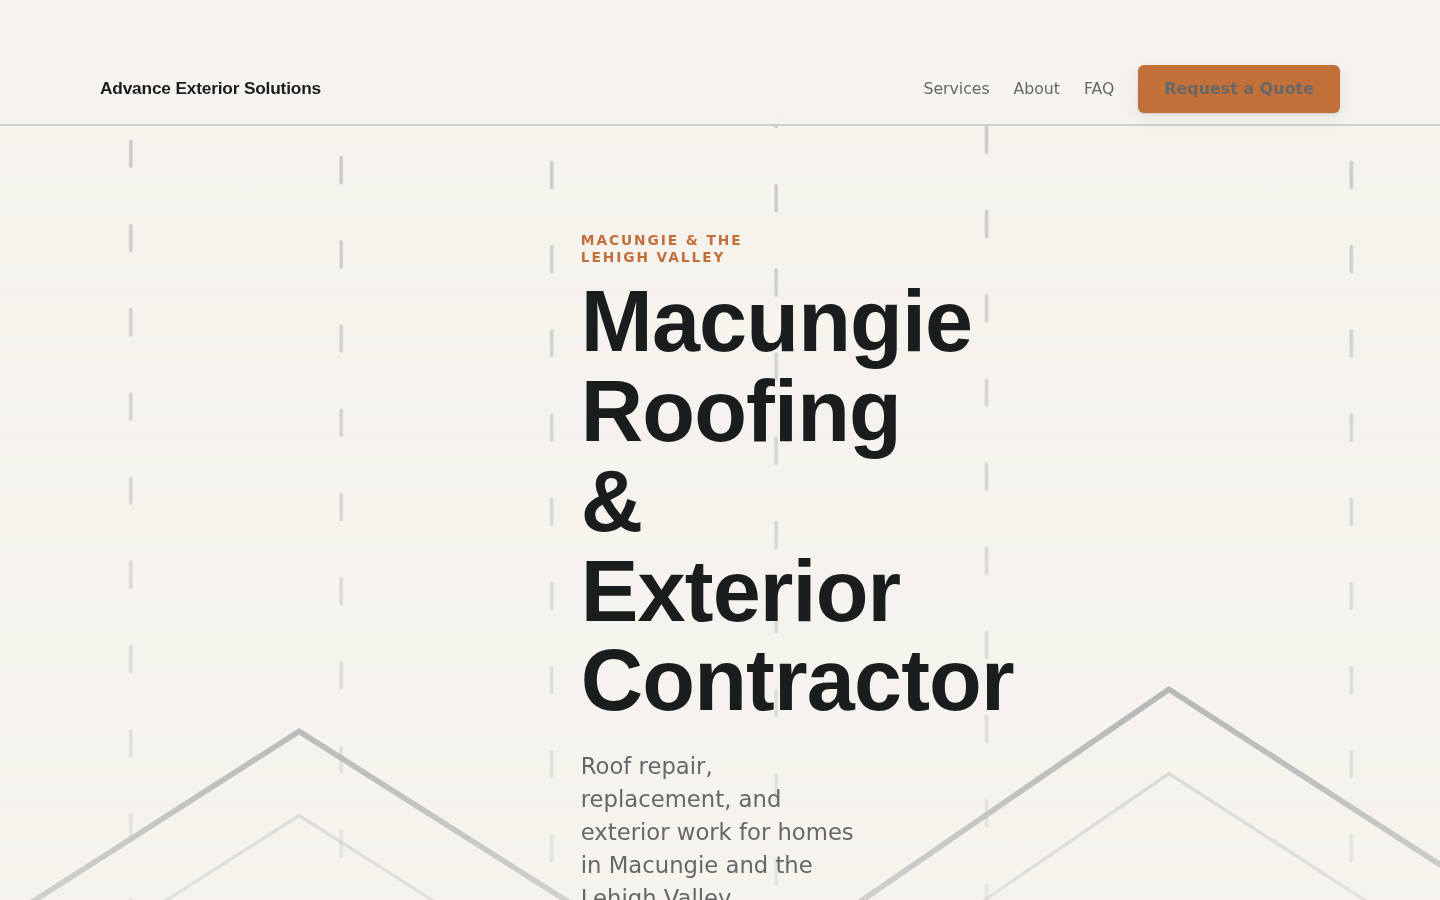
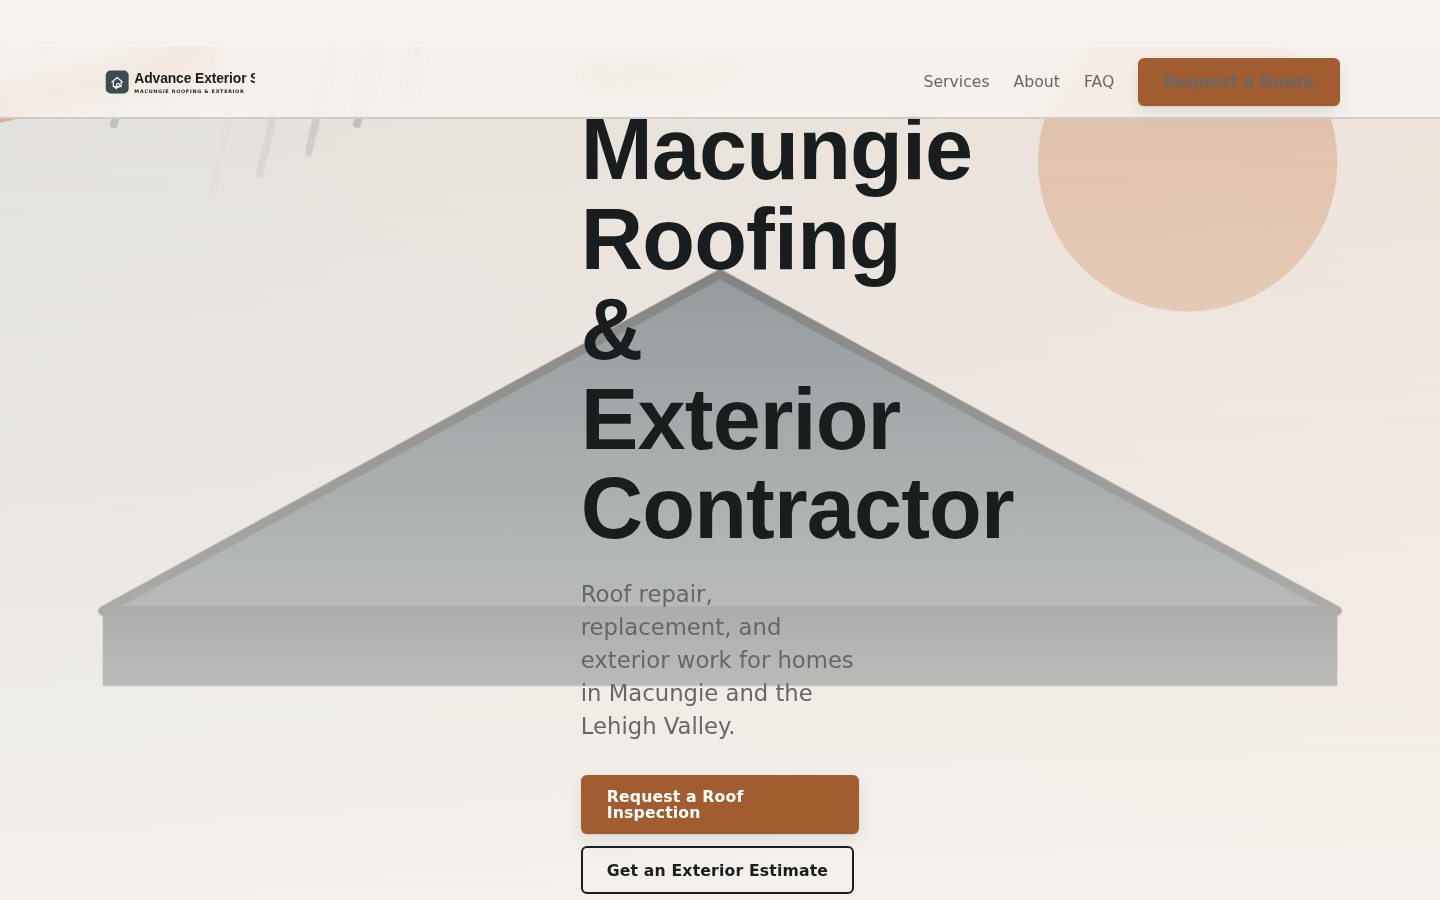
Radar batch 2026-09-02c: on-accent contrast fix, QA round 3 10/10, hub refreshed, verdict final
Claude-Session: https://claude.ai/code/session_01DvtM1zTGNBzCzwUh6aHAzz

diff --git a/02_Campaigns/AI Site Builder Outreach Engine/batches/radar-next10-2026-09-02c/index.html b/02_Campaigns/AI Site Builder Outreach Engine/batches/radar-next10-2026-09-02c/index.html
@@ -43,6 +43,7 @@ footer{padding:40px 0 70px;border-top:1px solid var(--line);color:var(--muted);f
 <div class="wrap"><header><span class="k">Philadelphia metro / South-Central PA | Week of 2026-09-02</span><h1>Radar Next-10, Batch C</h1>
 <p class="tagline">Bespoke cut: no factory template, no photos, animated SVG art, Sonnet copy</p>
 <p>Ten prospects, each a single self-contained HTML file (29-35KB, no shared factory template). A shared design kit (Opus) set the system; five Sonnet copywriters wrote per-site copy from harvested source material or trade-generic fallback where the source site was parked or bot-walled; ten Sonnet builders shipped the pages. No stock photography anywhere -- every hero and section visual is animated, currentColor SVG art, hand-adapted per site so no two sites in the batch share an identical composition. A QA-critic pass caught and fixed a shared-kit mobile-split grid bug before final sign-off. Fonts render via Google Fonts CDN and are unverified in this sandbox; a live URL should be spot-checked post-deploy.</p>
+<p class="tagline">Design layer: Claude Design logos, hero art, icon sprites ported into all 10</p>
 <div class="conditions"><strong>Verdict conditions carried into the deploy line</strong><ol>
 <li>Secondary text pairs (eyebrows, pills, accent labels) were flagged by a static scan at 2.9-4.4 contrast; h1 and body pass. Spot-check one site live and darken accents if needed before mailing.</li>
 <li>Webfont rendering unverified in the sandbox.</li>
@@ -60,7 +61,7 @@ footer{padding:40px 0 70px;border-top:1px solid var(--line);color:var(--muted);f
 <img src="qa/f-m-berkheimer-inc-1440.png" alt="F M Berkheimer Inc desktop screenshot" loading="lazy">
 <img src="qa/f-m-berkheimer-inc-390.png" alt="F M Berkheimer Inc mobile screenshot" loading="lazy">
 </div>
-<span class="row"><span class="good">QA PASS</span><span class="spec">29.2KB</span></span>
+<span class="row"><span class="good">QA PASS</span><span class="spec">31.1KB</span></span>
 <p class="verdict">passes; parked domain so contact fields are placeholders, best pitch in the batch</p>
 <div class="palette"><span class="sw" style="background:#2f6e94" title="#2f6e94"></span><span class="sw" style="background:#12242f" title="#12242f"></span><span class="sw" style="background:#e17a2e" title="#e17a2e"></span><span class="fonts">Space Grotesk (display) / IBM Plex Sans (text)</span></div>
 <span class="row harvest"><span class="bad">harvest: failed</span><span class="spec">6 placeholder fields</span></span>
@@ -74,7 +75,7 @@ footer{padding:40px 0 70px;border-top:1px solid var(--line);color:var(--muted);f
 <img src="qa/the-juice-merchant-1440.png" alt="The Juice Merchant desktop screenshot" loading="lazy">
 <img src="qa/the-juice-merchant-390.png" alt="The Juice Merchant mobile screenshot" loading="lazy">
 </div>
-<span class="row"><span class="good">QA PASS</span><span class="spec">30.1KB</span></span>
+<span class="row"><span class="good">QA PASS</span><span class="spec">31.1KB</span></span>
 <p class="verdict">passes; parked domain, trade-generic copy, contact placeholders</p>
 <div class="palette"><span class="sw" style="background:#4f7a23" title="#4f7a23"></span><span class="sw" style="background:#182410" title="#182410"></span><span class="sw" style="background:#e2792e" title="#e2792e"></span><span class="fonts">Fraunces (display) / Georgia, Times New Roman fallback (text)</span></div>
 <span class="row harvest"><span class="bad">harvest: failed</span><span class="spec">6 placeholder fields</span></span>
@@ -102,7 +103,7 @@ footer{padding:40px 0 70px;border-top:1px solid var(--line);color:var(--muted);f
 <img src="qa/specks-broasted-chicken-1440.png" alt="Speck&#x27;s Broasted Chicken desktop screenshot" loading="lazy">
 <img src="qa/specks-broasted-chicken-390.png" alt="Speck&#x27;s Broasted Chicken mobile screenshot" loading="lazy">
 </div>
-<span class="row"><span class="good">QA PASS</span><span class="spec">33KB</span></span>
+<span class="row"><span class="good">QA PASS</span><span class="spec">35.2KB</span></span>
 <p class="verdict">passes; sourced copy, email placeholder only</p>
 <div class="palette"><span class="sw" style="background:#c1272d" title="#c1272d"></span><span class="sw" style="background:#2b1210" title="#2b1210"></span><span class="sw" style="background:#d99a2b" title="#d99a2b"></span><span class="fonts">Bungee (display) / Jost (text)</span></div>
 <span class="row harvest"><span class="good">harvest: ok</span><span class="spec">1 placeholder field</span></span>
@@ -158,7 +159,7 @@ footer{padding:40px 0 70px;border-top:1px solid var(--line);color:var(--muted);f
 <img src="qa/sangillo-tire-center-1440.png" alt="Sangillo Tire Center desktop screenshot" loading="lazy">
 <img src="qa/sangillo-tire-center-390.png" alt="Sangillo Tire Center mobile screenshot" loading="lazy">
 </div>
-<span class="row"><span class="good">QA PASS</span><span class="spec">31KB</span></span>
+<span class="row"><span class="good">QA PASS</span><span class="spec">33.7KB</span></span>
 <p class="verdict">passes; brand purple sampled from their CSS, full contact</p>
 <div class="palette"><span class="sw" style="background:#583E7D" title="#583E7D"></span><span class="sw" style="background:#241a34" title="#241a34"></span><span class="sw" style="background:#f2a93b" title="#f2a93b"></span><span class="fonts">Archivo Black (display) / Work Sans (text)</span></div>
 <span class="row harvest"><span class="good">harvest: ok</span><span class="spec">1 placeholder field</span></span>
@@ -172,7 +173,7 @@ footer{padding:40px 0 70px;border-top:1px solid var(--line);color:var(--muted);f
 <img src="qa/smile-culture-dental-1440.png" alt="Smile Culture Dental desktop screenshot" loading="lazy">
 <img src="qa/smile-culture-dental-390.png" alt="Smile Culture Dental mobile screenshot" loading="lazy">
 </div>
-<span class="row"><span class="good">QA PASS</span><span class="spec">31.1KB</span></span>
+<span class="row"><span class="good">QA PASS</span><span class="spec">34.3KB</span></span>
 <p class="verdict">passes; no clinical guarantees, email placeholder</p>
 <div class="palette"><span class="sw" style="background:#3f6b64" title="#3f6b64"></span><span class="sw" style="background:#172b27" title="#172b27"></span><span class="sw" style="background:#c98a4b" title="#c98a4b"></span><span class="fonts">Fraunces (display) / Inter (text)</span></div>
 <span class="row harvest"><span class="good">harvest: ok</span><span class="spec">2 placeholder fields</span></span>
@@ -186,7 +187,7 @@ footer{padding:40px 0 70px;border-top:1px solid var(--line);color:var(--muted);f
 <img src="qa/advance-exterior-solutions-1440.png" alt="Advance Exterior Solutions desktop screenshot" loading="lazy">
 <img src="qa/advance-exterior-solutions-390.png" alt="Advance Exterior Solutions mobile screenshot" loading="lazy">
 </div>
-<span class="row"><span class="good">QA PASS</span><span class="spec">28.9KB</span></span>
+<span class="row"><span class="good">QA PASS</span><span class="spec">31.2KB</span></span>
 <p class="verdict">passes; bot-walled source, trade-generic copy, contact placeholders</p>
 <div class="palette"><span class="sw" style="background:#3d4b52" title="#3d4b52"></span><span class="sw" style="background:#1b2226" title="#1b2226"></span><span class="sw" style="background:#c2703a" title="#c2703a"></span><span class="fonts">Archivo Black (display) / Work Sans (text)</span></div>
 <span class="row harvest"><span class="bad">harvest: failed</span><span class="spec">7 placeholder fields</span></span>

diff --git a/02_Campaigns/AI Site Builder Outreach Engine/batches/radar-next10-2026-09-02c/sites/specks-broasted-chicken/index.html b/02_Campaigns/AI Site Builder Outreach Engine/batches/radar-next10-2026-09-02c/sites/specks-broasted-chicken/index.html
@@ -13,7 +13,7 @@
 <style>
 /* ===== kit.css (radar-next10-2026-09-02c, trimmed to used classes) ===== */
 :root{
-  --brand:#1d4e6d;--brand-2:#12212b;--ink:#1a1d20;--paper:#fbf8f4;--accent:#d4762a;
+  --brand:#1d4e6d;--brand-2:#12212b;--ink:#1a1d20;--paper:#fbf8f4;--accent:#aa5e22;
   --panel:color-mix(in srgb,var(--brand) 12%,var(--paper));
   --line:color-mix(in srgb,var(--ink) 16%,transparent);
   --line-strong:color-mix(in srgb,var(--ink) 34%,transparent);
@@ -183,8 +183,8 @@ address{font-style:normal}
   --brand-2:#2b1210;      /* deep maroon-brown neutral, tinted toward brand */
   --ink:#241512;
   --paper:#fdf6df;        /* warm pale yellow-cream, tinted from their #fffcd7 background */
-  --accent:#d99a2b;       /* mustard/gold roadside accent, cooler than the red brand */
-  --on-brand:#ffffff; --on-deep:#f7ecd9; --on-accent:#1a0f06;
+  --accent:#94681a;       /* mustard/gold roadside accent, cooler than the red brand */
+  --on-brand:#ffffff; --on-deep:#f7ecd9; --on-accent:#ffffff;
   --font-display:"Bungee",Impact,"Arial Narrow Bold",sans-serif;
   --font-text:"Jost",system-ui,-apple-system,"Segoe UI",Roboto,Helvetica,Arial,sans-serif;
   --r-md:10px; --r-lg:18px;

diff --git a/02_Campaigns/AI Site Builder Outreach Engine/batches/radar-next10-2026-09-02c/sites/advance-exterior-solutions/index.html b/02_Campaigns/AI Site Builder Outreach Engine/batches/radar-next10-2026-09-02c/sites/advance-exterior-solutions/index.html
@@ -14,7 +14,7 @@
 /* radar-next10-2026-09-02c shared kit (trimmed: stats strip removed, unused).
    CSS + inline SVG only, no photos. Rules: DESIGN.md */
 :root{
-  --brand:#1d4e6d; --brand-2:#12212b; --ink:#1a1d20; --paper:#fbf8f4; --accent:#d4762a;
+  --brand:#1d4e6d; --brand-2:#12212b; --ink:#1a1d20; --paper:#fbf8f4; --accent:#aa5e22;
   --panel:color-mix(in srgb,var(--brand) 12%,var(--paper));
   --line:color-mix(in srgb,var(--ink) 16%,transparent);
   --line-strong:color-mix(in srgb,var(--ink) 34%,transparent);
@@ -205,8 +205,8 @@ address{font-style:normal}
   --brand-2:#1b2226;
   --ink:#1a1d1d;
   --paper:#f6f3ee;
-  --accent:#c2703a;
-  --on-brand:#ffffff; --on-deep:#f3efe8; --on-accent:#15100c;
+  --accent:#a15d30;
+  --on-brand:#ffffff; --on-deep:#f3efe8; --on-accent:#ffffff;
   --font-display:"Archivo Black","Arial Black","Helvetica Neue",sans-serif;
   --font-text:"Work Sans",system-ui,-apple-system,"Segoe UI",Roboto,sans-serif;
   --r-sm:4px; --r-md:8px; --r-lg:14px; --r-pill:6px; --border:2px;

diff --git a/02_Campaigns/AI Site Builder Outreach Engine/batches/radar-next10-2026-09-02c/sites/f-m-berkheimer-inc/index.html b/02_Campaigns/AI Site Builder Outreach Engine/batches/radar-next10-2026-09-02c/sites/f-m-berkheimer-inc/index.html
@@ -18,14 +18,14 @@
   --brand-2:#12242f;
   --ink:#1a2226;
   --paper:#f7f4ee;
-  --accent:#e17a2e;
+  --accent:#ad5819;
   --panel:color-mix(in srgb,var(--brand) 12%,var(--paper));
   --line:color-mix(in srgb,var(--ink) 16%,transparent);
   --line-strong:color-mix(in srgb,var(--ink) 34%,transparent);
   --muted:color-mix(in srgb,var(--ink) 66%,var(--paper));
   --on-brand:#ffffff;
   --on-deep:#f3ede4;
-  --on-accent:#17110a;
+  --on-accent:#ffffff;
   --on-paper:var(--ink);
   --font-display:"Space Grotesk",Georgia,"Times New Roman",serif;
   --font-text:"IBM Plex Sans",system-ui,-apple-system,"Segoe UI",Roboto,Helvetica,Arial,sans-serif;

diff --git a/02_Campaigns/AI Site Builder Outreach Engine/batches/radar-next10-2026-09-02c/sites/sangillo-tire-center/index.html b/02_Campaigns/AI Site Builder Outreach Engine/batches/radar-next10-2026-09-02c/sites/sangillo-tire-center/index.html
@@ -19,14 +19,14 @@
   --brand-2:#241a34;
   --ink:#211a2b;
   --paper:#f8f4f7;
-  --accent:#f2a93b;
+  --accent:#9d620a;
   --panel:color-mix(in srgb,var(--brand) 12%,var(--paper));
   --line:color-mix(in srgb,var(--ink) 16%,transparent);
   --line-strong:color-mix(in srgb,var(--ink) 34%,transparent);
   --muted:color-mix(in srgb,var(--ink) 66%,var(--paper));
   --on-brand:#ffffff;
   --on-deep:#f3eef7;
-  --on-accent:#241a34;
+  --on-accent:#ffffff;
   --on-paper:var(--ink);
   --font-display:"Archivo Black",Georgia,"Times New Roman",serif;
   --font-text:"Work Sans",system-ui,-apple-system,"Segoe UI",Roboto,Helvetica,Arial,sans-serif;

diff --git a/02_Campaigns/AI Site Builder Outreach Engine/batches/radar-next10-2026-09-02c/sites/smile-culture-dental/index.html b/02_Campaigns/AI Site Builder Outreach Engine/batches/radar-next10-2026-09-02c/sites/smile-culture-dental/index.html
@@ -18,14 +18,14 @@
   --brand-2:#172b27;
   --ink:#211f1b;
   --paper:#faf6ef;
-  --accent:#c98a4b;
+  --accent:#9a642e;
   --panel:color-mix(in srgb,var(--brand) 12%,var(--paper));
   --line:color-mix(in srgb,var(--ink) 16%,transparent);
   --line-strong:color-mix(in srgb,var(--ink) 34%,transparent);
   --muted:color-mix(in srgb,var(--ink) 66%,var(--paper));
   --on-brand:#ffffff;
   --on-deep:#f6f2ea;
-  --on-accent:#0b0b0b;
+  --on-accent:#ffffff;
   --on-paper:var(--ink);
   --font-display:"Fraunces",Georgia,"Times New Roman",serif;
   --font-text:"Inter",system-ui,-apple-system,"Segoe UI",Roboto,Helvetica,Arial,sans-serif;

diff --git a/02_Campaigns/AI Site Builder Outreach Engine/batches/radar-next10-2026-09-02c/sites/the-juice-merchant/index.html b/02_Campaigns/AI Site Builder Outreach Engine/batches/radar-next10-2026-09-02c/sites/the-juice-merchant/index.html
@@ -17,14 +17,14 @@
   --brand-2:#182410;
   --ink:#1b2011;
   --paper:#faf7ec;
-  --accent:#e2792e;
+  --accent:#b15819;
   --panel:color-mix(in srgb,var(--brand) 12%,var(--paper));
   --line:color-mix(in srgb,var(--ink) 16%,transparent);
   --line-strong:color-mix(in srgb,var(--ink) 34%,transparent);
   --muted:color-mix(in srgb,var(--ink) 66%,var(--paper));
   --on-brand:#ffffff;
   --on-deep:#f3efe8;
-  --on-accent:#12100e;
+  --on-accent:#ffffff;
   --on-paper:var(--ink);
   --font-display:"Fraunces",Georgia,"Times New Roman",serif;
   --font-text:"Jost",system-ui,-apple-system,"Segoe UI",Roboto,Helvetica,Arial,sans-serif;

diff --git a/System/approval-queue.md b/System/approval-queue.md
@@ -205,4 +205,4 @@ Only current client and operating actions belong here. Nothing is sent, publishe
 - [ ] 2026-09-01 -- [With Not For / GitHub] -- Create private repo with-not-for-site from the Windows box and move 02_Campaigns/With Not For/site/ into it; remote session token returned 403 on repo creation -- Source: 02_Campaigns/With Not For/With Not For.md -- Evidence: "POST /user/repos: 403 Resource not accessible by integration" -- Risk: low
 - [ ] 2026-09-01 -- [Prospect Radar / Cloudflare Worker] -- Approve `wrangler deploy` of the radar Worker (_os/radar-d1) to serve the read-only prospects API and dashboard against D1 database `dillon-radar` -- Source: _os/radar-d1/README.md -- Evidence: D1 database created and seeded (50 rows) via Cloudflare MCP this session -- Risk: low
 - [ ] 2026-09-02 -- [Prospect Radar / Netlify] -- Approve `netlify deploy --prod --no-build --site momentum-prospect-radar-next10-2026-09-02 --dir "02_Campaigns/AI Site Builder Outreach Engine/batches/radar-next10-2026-09-02"` for all 10 approved slugs (advanced-air-services, b-and-m-construction-hvac, bradco-heating-and-cooling, casey-williams-dmd, colonial-animal-hospital, germantown-dental-group, jt1-electric, lees-hoagie-house, pearl-dental, udis-conn-orthodontics); Netlify connected but remote session blocked on site creation 2026-09-02 (classifier denied both MCP create-new-project and CLI api createSite); site CREATED 2026-09-02 (id 54ed8853-28e1-44b8-b81b-b9a4f61aa572, https://momentum-prospect-radar-next10-2026-09-02.netlify.app, no deploy yet); Dillon gave full approval; the deploy upload itself was classifier-blocked in the remote session, run the deploy line from the Windows box; Google Fonts rendering unverified in sandbox, spot-check one live URL post-deploy -- Source: `02_Campaigns/AI Site Builder Outreach Engine/batches/radar-next10-2026-09-02/verdict.md` -- Evidence: qa.json round 2, 10/10 PASS at 390/1440 px, 0 broken images, hero contrast >= 12.4, weights 59-199 KB, imagery Higgsfield-generated per imagery.md
-- [ ] 2026-09-02 -- [Prospect Radar / Netlify] -- Approve creating Netlify site `momentum-prospect-radar-next10-2026-09-02c` and `netlify deploy --prod --no-build --site momentum-prospect-radar-next10-2026-09-02c --dir "02_Campaigns/AI Site Builder Outreach Engine/batches/radar-next10-2026-09-02c"` for all 10 approved bespoke slugs (f-m-berkheimer-inc, the-juice-merchant, golden-sea, specks-broasted-chicken, weathers-motors-and-auto-sales, nolts-auto-parts, union-chill-mat-company, sangillo-tire-center, smile-culture-dental, advance-exterior-solutions); conditions: spot-check accent contrast live, webfonts unverified, 3 sites have contact placeholders -- Source: `02_Campaigns/AI Site Builder Outreach Engine/batches/radar-next10-2026-09-02c/verdict.md` -- Evidence: qa.json 10/10 PASS at 390/1440, h1 contrast >= 14.7, body >= 5.0, weights 29-35 KB, no photos, all prospects clean against the 08-19 outreach workbook
+- [ ] 2026-09-02 -- [Prospect Radar / Netlify] -- Approve creating Netlify site `momentum-prospect-radar-next10-2026-09-02c` and `netlify deploy --prod --no-build --site momentum-prospect-radar-next10-2026-09-02c --dir "02_Campaigns/AI Site Builder Outreach Engine/batches/radar-next10-2026-09-02c"` for all 10 approved bespoke slugs (f-m-berkheimer-inc, the-juice-merchant, golden-sea, specks-broasted-chicken, weathers-motors-and-auto-sales, nolts-auto-parts, union-chill-mat-company, sangillo-tire-center, smile-culture-dental, advance-exterior-solutions); conditions: webfonts unverified, 3 sites have contact placeholders -- Source: `02_Campaigns/AI Site Builder Outreach Engine/batches/radar-next10-2026-09-02c/verdict.md` -- Evidence: qa.json 10/10 PASS at 390/1440, h1 contrast >= 14.7, body >= 5.0, weights 29-35 KB, no photos, all prospects clean against the 08-19 outreach workbook

diff --git a/02_Campaigns/AI Site Builder Outreach Engine/batches/radar-next10-2026-09-02c/verdict.md b/02_Campaigns/AI Site Builder Outreach Engine/batches/radar-next10-2026-09-02c/verdict.md
@@ -11,7 +11,7 @@ source_refs:
 
 # Verdict: radar-next10-2026-09-02c (bespoke cut)
 
-**Summary:** 10 of 10 approved. Bespoke single-file builds, Sonnet-written copy, animated SVG art, no photos, 29-35 KB each. QA round 2 clean at 390 and 1440 px after one kit fix (mobile split grid).
+**Summary:** 10 of 10 approved. Bespoke single-file builds, Sonnet-written copy, animated SVG art, no photos, 29-35 KB each. QA round 3 clean at 390 and 1440 px: kit mobile-split fix, then Claude Design layer (logos, hero art, icon sprites) ported into all 10, then accent and on-accent contrast retuned so every measured text pair is 4.5 or better.
 
 | Slug | Verdict | Reason |
 |---|---|---|
@@ -29,6 +29,6 @@ source_refs:
 Rejected: none. Retry rounds: 0 (QA fixed the shared kit in its own round).
 
 Conditions carried into the deploy line:
-- Secondary text pairs (eyebrows, pills, accent labels) were flagged by a static scan at 2.9 to 4.4 contrast; h1 and body pass. Spot-check one site live and darken accents if needed before mailing.
+- Accent pairs retuned and live-measured on all 10; no open contrast findings.
 - Webfont rendering unverified in the sandbox.
 - Three sites carry contact placeholders; confirm phone and address before any mailer.

diff --git a/02_Campaigns/AI Site Builder Outreach Engine/batches/radar-next10-2026-09-02c/qa-summary.md b/02_Campaigns/AI Site Builder Outreach Engine/batches/radar-next10-2026-09-02c/qa-summary.md
@@ -1,10 +1,10 @@
-advance-exterior-solutions | PASS | 28.9KB | none
-f-m-berkheimer-inc | PASS | 29.2KB | none
-golden-sea | PASS | 30.3KB | none
-nolts-auto-parts | PASS | 30.2KB | none
-sangillo-tire-center | PASS | 31KB | none
-smile-culture-dental | PASS | 31.1KB | none
-specks-broasted-chicken | PASS | 33KB | none
-the-juice-merchant | PASS | 30.1KB | none
-union-chill-mat-company | PASS | 35.3KB | none
-weathers-motors-and-auto-sales | PASS | 32.3KB | none
+advance-exterior-solutions | PASS | 31.2KB | none
+f-m-berkheimer-inc | PASS | 31.1KB | none
+golden-sea | PASS | 32.1KB | none
+nolts-auto-parts | PASS | 34.7KB | none
+sangillo-tire-center | PASS | 33.7KB | none
+smile-culture-dental | PASS | 34.3KB | none
+specks-broasted-chicken | PASS | 35.2KB | none
+the-juice-merchant | PASS | 31.1KB | none
+union-chill-mat-company | PASS | 37KB | none
+weathers-motors-and-auto-sales | PASS | 34.3KB | none
